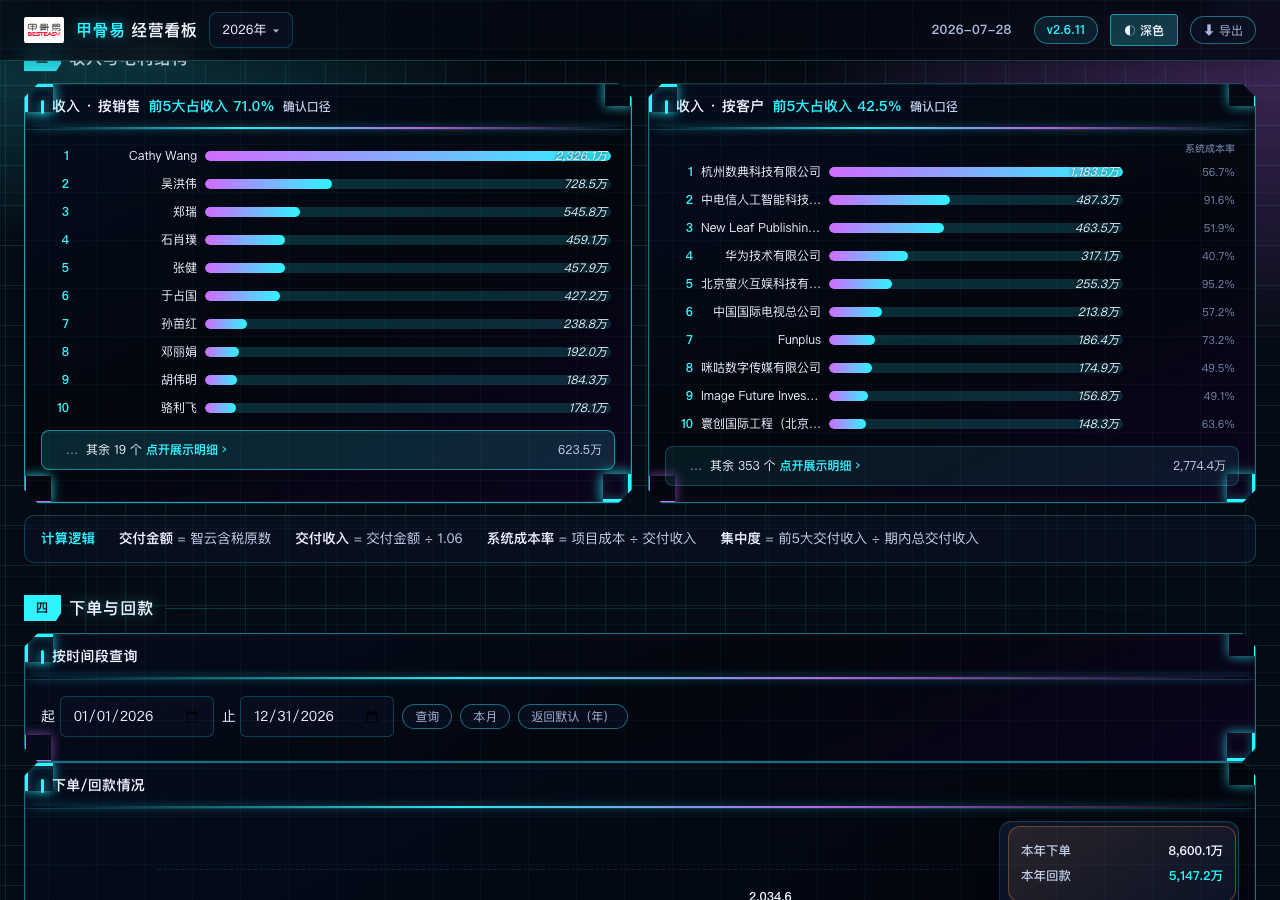
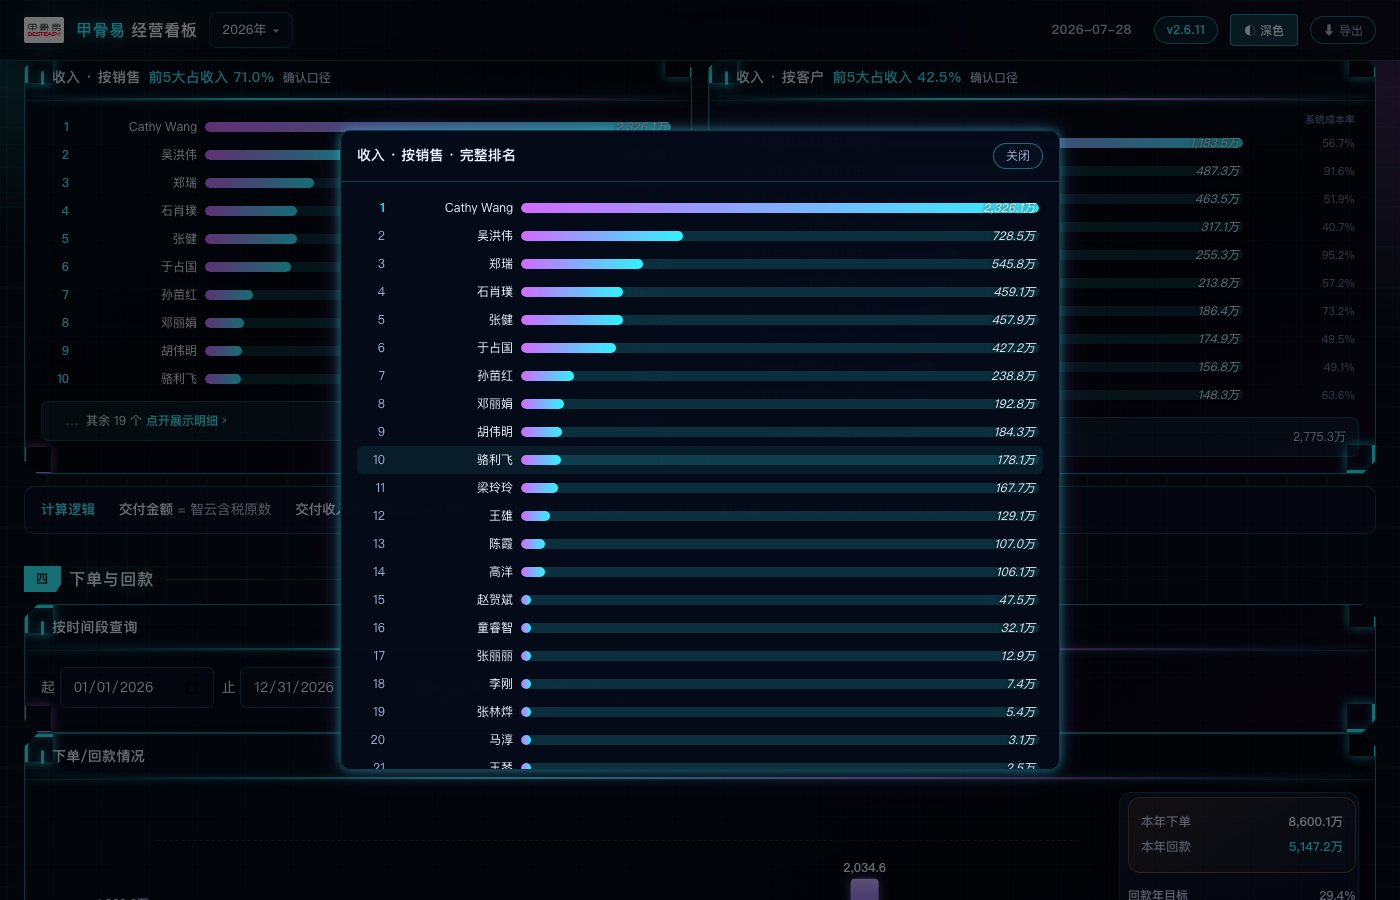
docs(2.6.11): 生产/本地可见弹层重拍证据 + 交付报告真根因
neon body>* 覆盖 fixed 已上生产；L1/L2/L3/L5 截图可见抽屉与 DataModal。

diff --git a/docs/验收证据/2_6_11/live/prod_live_notes.md b/docs/验收证据/2_6_11/live/prod_live_notes.md
@@ -1,4 +1,4 @@
-prod_version_badge_count=1
-L1: click 查看构成 → drawer count=2 title='交付成本（生产成本）构成'
-L2: click 点开展示明细 → modal count=1 text='收入 · 按销售 · 完整排名\n关闭\n1\nCathy Wang\n2,326.1万\n2\n吴洪伟\n728.5万\n3\n郑瑞\n5'
-L5-prod: admin iframe 查看构成 → count=2
+prod L1: 点击「查看构成 ›」→ 右侧抽屉可见 title='交付成本（生产成本）构成' w=460 h=900
+prod L2: 点击「点开展示明细 ›」→ DataModal 可见 text='收入 · 按销售 · 完整排名\n关闭\n1\nCathy Wang\n2,326.1万\n2\n吴洪伟\n728.5万\n3\n郑瑞\n5' w=1400 h=900
+prod L5: admin iframe 查看构成 → 抽屉可见 title='交付成本（生产成本）构成' w=460 h=758
+prod L5-L2: admin iframe 点开展示明细 → DataModal 可见 text='收入 · 按销售 · 完整排名\n关闭\n1\nCathy Wang\n2,326.1万'

diff --git a/docs/20260728_任务书2.6.11交付报告.md b/docs/20260728_任务书2.6.11交付报告.md
@@ -36,3 +36,7 @@
 ## 说明
 
 任务书要求 drawer 基座进 SPA 且 theme 可兼容；仓库守卫 `test_css_no_dup_classes` **禁止** theme 与 tokens 同名 class，故 drawer 基座**仅**保留在 SPA tokens/dist，theme 删除同名规则（注释指向 SPA）。pl-drow 等明细行仍在 theme。
+
+
+## 真根因
+neon body>* 覆盖 drawer fixed（见 CHANGELOG/代码）。
